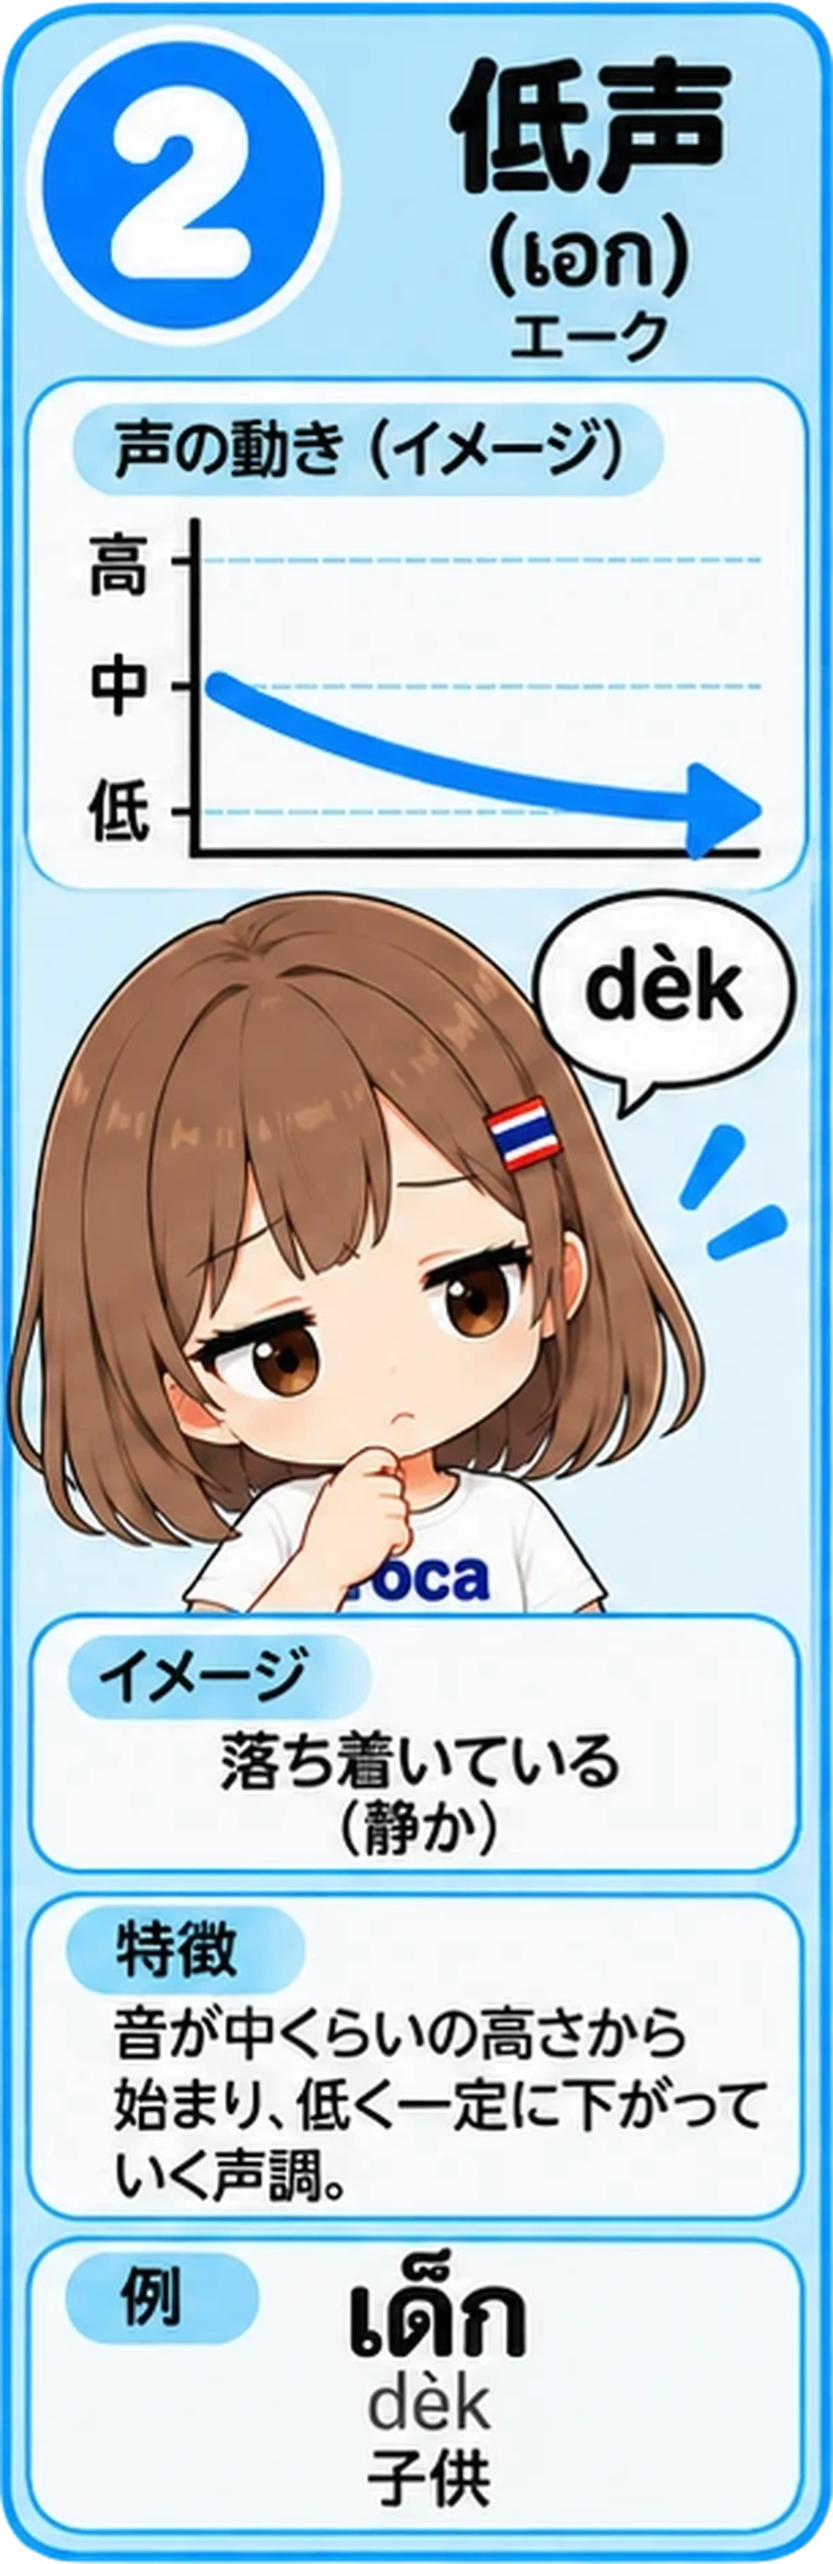
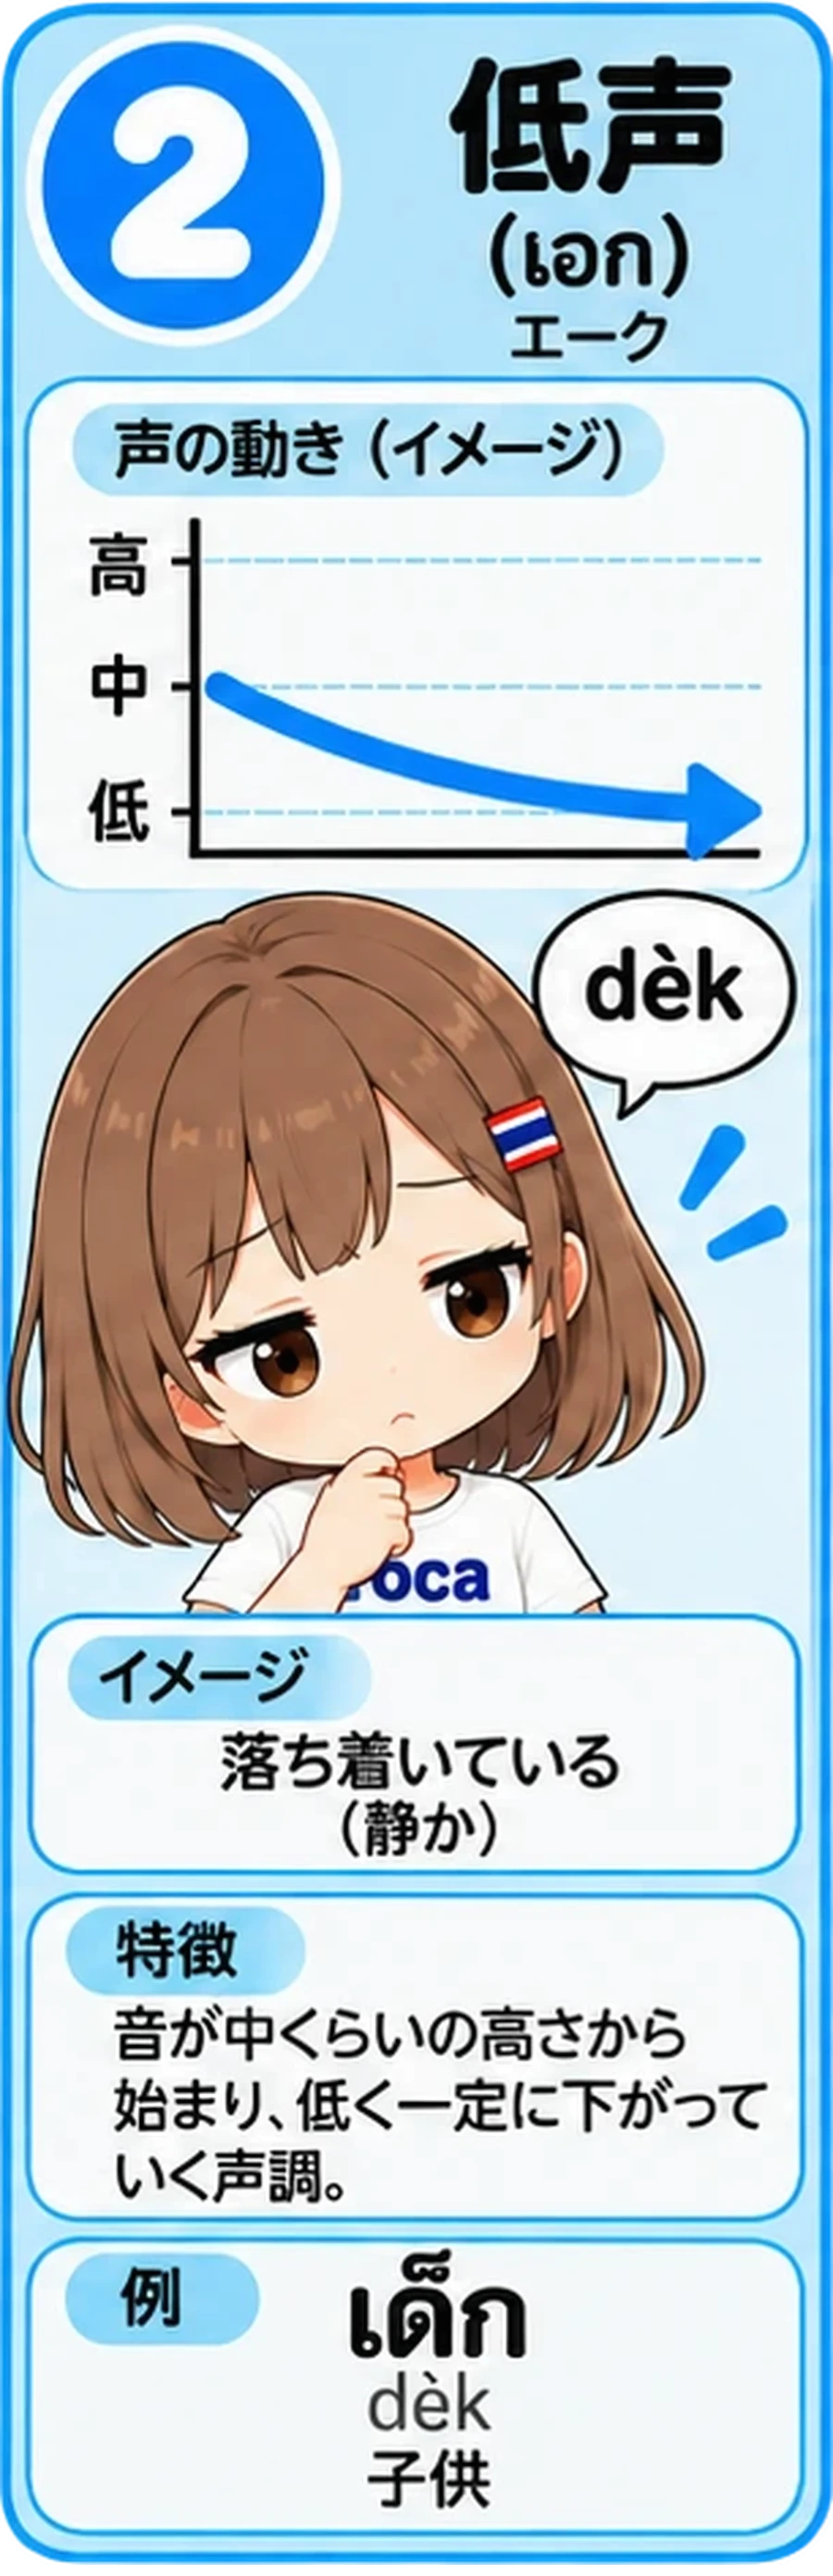
声調イラストカードの縦サイズを5枚とも統一(900x2780に透過パディング)
原因: 各カードはグラフ・キャラ・テキストボックスまで1枚絵として焼き込まれており、
HTML側はwidth:100%;height:autoのみ指定。画像ファイルごとのキャンバス高さが
最大3.7%ずれていたため、実機でカードの見た目サイズが明らかに異なって見えていた。

対処: 5枚全てのキャンバス高さを最大値(2780px)に揃え、元の内容は上詰めのまま
下側に透過パディングを追加。再生成はせず、既存の承認済み内容はそのまま維持。
ブラウザ実測(Playwright)でnaturalWidth/Height が5枚とも900x2780に統一された
ことを確認済み。

Claude-Session: https://claude.ai/code/session_01943EUCWJXEw4xvu6FgakSF

diff --git a/app.html b/app.html
@@ -1427,7 +1427,7 @@ const fRO = s => s ? s.replace(/\{PR}/g, PT[st.gender].ro).replace(/\{PSR}/g, PT
 async function sto_get(k){ try{ const v=localStorage.getItem(k); return v?JSON.parse(v):null; }catch(e){ return null; } }
 async function sto_set(k,v){ try{ localStorage.setItem(k,JSON.stringify(v)); }catch(e){} }
 // アプリのバージョン。更新のたびにこの値を変更してください(日付など分かりやすいものでOK)
-const APP_VERSION = '2026-10-03d';
+const APP_VERSION = '2026-10-03e';
 {
   const vl=document.getElementById('verLabel');
   if(vl) vl.textContent='v'+APP_VERSION;

diff --git a/sw.js b/sw.js
@@ -1,7 +1,7 @@
 // Thai Pocket Cards Service Worker
 // NOTE: Bump SW_VERSION whenever app.html's APP_VERSION changes,
 // so returning users get the fresh file instead of a stale cached one.
-const SW_VERSION = '2026-10-03d';
+const SW_VERSION = '2026-10-03e';
 const CACHE_NAME = `taka-thaipocket-${SW_VERSION}`;
 
 const APP_SHELL = [
